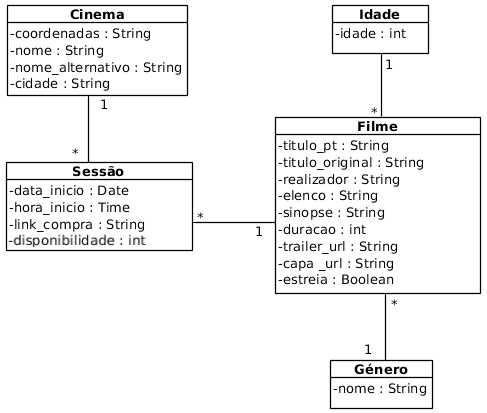
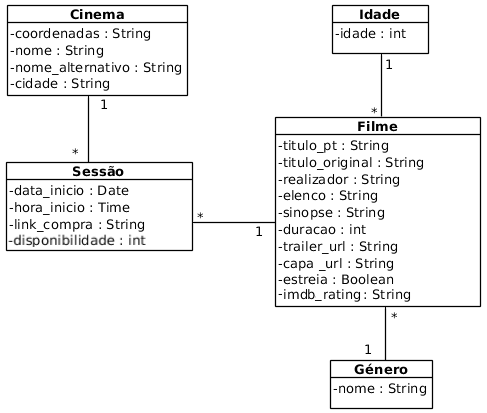
Changes on database pictures and small fix on REAMDE.

Changed region(s): [[0.5544, 0.6973, 1.0, 0.7845]]

diff --git a/README.md b/README.md
@@ -58,8 +58,10 @@ The API provided by this service allows:
 `docker build -t cinemas_scrapper .`
 * Run Docker container
 `docker run -p 5003:8000 -it cinemas_scrapper`
+* Change directory
+`cd Cinemas_Webscrapper`
 * Run script
-`./Cinemas_Webscrapper/run.sh`
+`./run.sh`
 
 
 ## Architecture
